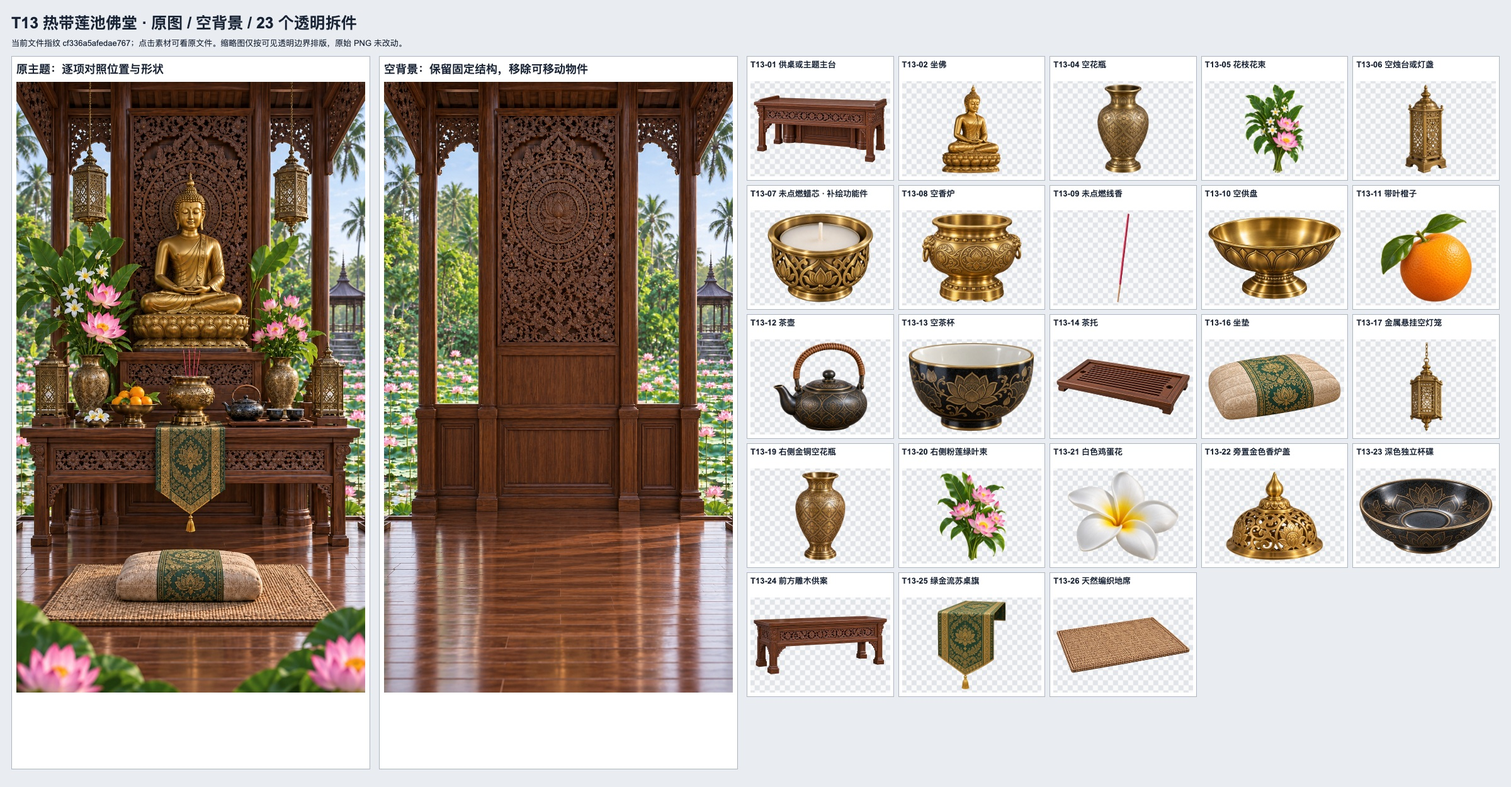
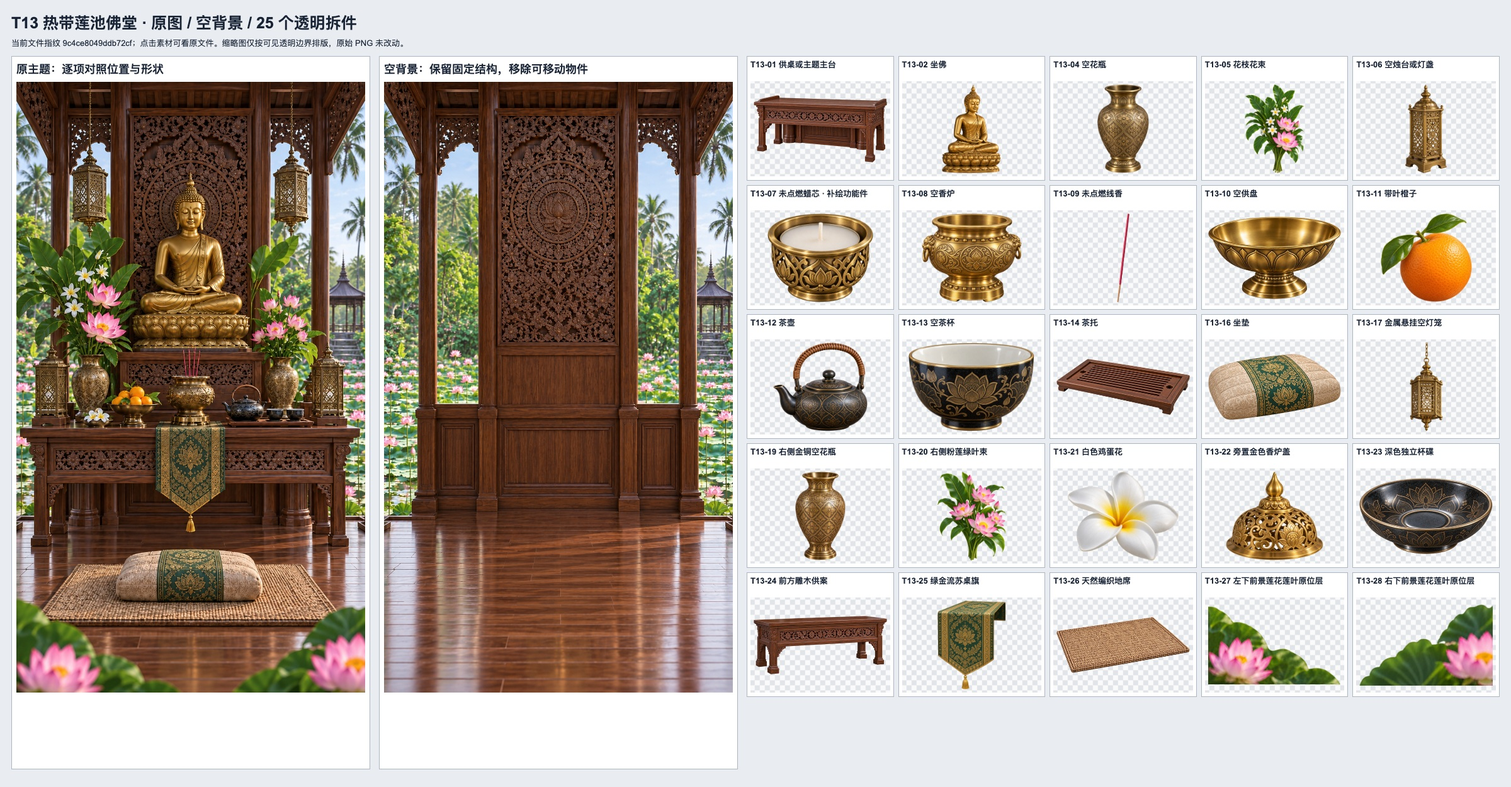
assets: complete final lotus and background corrections

diff --git a/themes/T07/index.html b/themes/T07/index.html
@@ -4,6 +4,6 @@
     .scene{background:white;padding:7px;border:1px solid #aab6c4}.scene b{display:block;font-size:18px;margin-bottom:8px}.scene img{width:100%;height:1080px;object-fit:contain;object-position:top}
     .assets{display:grid;grid-template-columns:repeat(5,1fr);gap:7px;align-content:start}article{border:1px solid #aab6c4;background:white;height:198px;padding:5px;overflow:hidden}
     header{font-size:13px;font-weight:600;height:34px;line-height:16px}article a{display:block;height:151px;background:repeating-conic-gradient(#e1e4e8 0% 25%,#fafafa 0% 50%) 50% / 16px 16px}article img{width:100%;height:100%;object-fit:contain;padding:5px}
-    </style><h1>T07 尼泊尔纽瓦铜艺佛堂 · 原图 / 空背景 / 36 个透明拆件</h1>
-    <div class="note">当前文件指纹 42d39b0f74ef141a；点击素材可看原文件。缩略图仅按可见透明边界排版，原始 PNG 未改动。</div>
-    <div class="layout"><section class="scene"><b>原主题：逐项对照位置与形状</b><img src="source.png"></section><section class="scene"><b>空背景：保留固定结构，移除可移动物件</b><img src="background.png"></section><section class="assets"><article><header>T07-01 供桌或主题主台</header><a href="objects/T07-01.png"><img src="thumbs/T07-01.png"></a></article><article><header>T07-02 坐佛</header><a href="objects/T07-02.png"><img src="thumbs/T07-02.png"></a></article><article><header>T07-04 空花瓶</header><a href="objects/T07-04.png"><img src="thumbs/T07-04.png"></a></article><article><header>T07-05 花枝花束</header><a href="objects/T07-05.png"><img src="thumbs/T07-05.png"></a></article><article><header>T07-06 空烛台或灯盏</header><a href="objects/T07-06.png"><img src="thumbs/T07-06.png"></a></article><article><header>T07-07 未点燃油灯芯 · 补绘功能件</header><a href="objects/T07-07.png"><img src="thumbs/T07-07.png"></a></article><article><header>T07-08 空香炉</header><a href="objects/T07-08.png"><img src="thumbs/T07-08.png"></a></article><article><header>T07-10 空供盘</header><a href="objects/T07-10.png"><img src="thumbs/T07-10.png"></a></article><article><header>T07-11 红苹果</header><a href="objects/T07-11.png"><img src="thumbs/T07-11.png"></a></article><article><header>T07-12 茶壶</header><a href="objects/T07-12.png"><img src="thumbs/T07-12.png"></a></article><article><header>T07-13 空茶杯</header><a href="objects/T07-13.png"><img src="thumbs/T07-13.png"></a></article><article><header>T07-14 圆形托盘茶几</header><a href="objects/T07-14.png"><img src="thumbs/T07-14.png"></a></article><article><header>T07-16 坐垫</header><a href="objects/T07-16.png"><img src="thumbs/T07-16.png"></a></article><article><header>T07-17 悬挂铜铃</header><a href="objects/T07-17.png"><img src="thumbs/T07-17.png"></a></article><article><header>T07-18 右侧铜色空花瓶</header><a href="objects/T07-18.png"><img src="thumbs/T07-18.png"></a></article><article><header>T07-19 右侧混色花束</header><a href="objects/T07-19.png"><img src="thumbs/T07-19.png"></a></article><article><header>T07-20 上层中央空盖器</header><a href="objects/T07-20.png"><img src="thumbs/T07-20.png"></a></article><article><header>T07-21 上层中央供器盖</header><a href="objects/T07-21.png"><img src="thumbs/T07-21.png"></a></article><article><header>T07-22 上层白花空供碗</header><a href="objects/T07-22.png"><img src="thumbs/T07-22.png"></a></article><article><header>T07-23 上层白色供花簇</header><a href="objects/T07-23.png"><img src="thumbs/T07-23.png"></a></article><article><header>T07-24 下层左侧空花钵</header><a href="objects/T07-24.png"><img src="thumbs/T07-24.png"></a></article><article><header>T07-25 橙色供花簇</header><a href="objects/T07-25.png"><img src="thumbs/T07-25.png"></a></article><article><header>T07-26 下层古铜香炉盖</header><a href="objects/T07-26.png"><img src="thumbs/T07-26.png"></a></article><article><header>T07-27 下层右侧空花钵</header><a href="objects/T07-27.png"><img src="thumbs/T07-27.png"></a></article><article><header>T07-28 下层白橙混色供花簇</header><a href="objects/T07-28.png"><img src="thumbs/T07-28.png"></a></article><article><header>T07-29 左侧金属护狮</header><a href="objects/T07-29.png"><img src="thumbs/T07-29.png"></a></article><article><header>T07-30 右侧金属护狮</header><a href="objects/T07-30.png"><img src="thumbs/T07-30.png"></a></article><article><header>T07-31 左侧金属空花盆</header><a href="objects/T07-31.png"><img src="thumbs/T07-31.png"></a></article><article><header>T07-32 左侧开花绿植</header><a href="objects/T07-32.png"><img src="thumbs/T07-32.png"></a></article><article><header>T07-33 右侧金属空花盆</header><a href="objects/T07-33.png"><img src="thumbs/T07-33.png"></a></article><article><header>T07-34 右侧开花绿植</header><a href="objects/T07-34.png"><img src="thumbs/T07-34.png"></a></article><article><header>T07-35 前左大型空水钵</header><a href="objects/T07-35.png"><img src="thumbs/T07-35.png"></a></article><article><header>T07-36 漂浮白色供花</header><a href="objects/T07-36.png"><img src="thumbs/T07-36.png"></a></article><article><header>T07-37 漂浮橙色供花</header><a href="objects/T07-37.png"><img src="thumbs/T07-37.png"></a></article><article><header>T07-38 铜色独立杯碟</header><a href="objects/T07-38.png"><img src="thumbs/T07-38.png"></a></article><article><header>T07-39 红蓝纹样地毯</header><a href="objects/T07-39.png"><img src="thumbs/T07-39.png"></a></article></section></div></html>
+    </style><h1>T07 尼泊尔纽瓦铜艺佛堂 · 原图 / 空背景 / 37 个透明拆件</h1>
+    <div class="note">当前文件指纹 961e79a11b855504；点击素材可看原文件。缩略图仅按可见透明边界排版，原始 PNG 未改动。</div>
+    <div class="layout"><section class="scene"><b>原主题：逐项对照位置与形状</b><img src="source.png"></section><section class="scene"><b>空背景：保留固定结构，移除可移动物件</b><img src="background.png"></section><section class="assets"><article><header>T07-01 供桌或主题主台</header><a href="objects/T07-01.png"><img src="thumbs/T07-01.png"></a></article><article><header>T07-02 坐佛</header><a href="objects/T07-02.png"><img src="thumbs/T07-02.png"></a></article><article><header>T07-04 空花瓶</header><a href="objects/T07-04.png"><img src="thumbs/T07-04.png"></a></article><article><header>T07-05 花枝花束</header><a href="objects/T07-05.png"><img src="thumbs/T07-05.png"></a></article><article><header>T07-06 空烛台或灯盏</header><a href="objects/T07-06.png"><img src="thumbs/T07-06.png"></a></article><article><header>T07-07 未点燃油灯芯 · 补绘功能件</header><a href="objects/T07-07.png"><img src="thumbs/T07-07.png"></a></article><article><header>T07-08 空香炉</header><a href="objects/T07-08.png"><img src="thumbs/T07-08.png"></a></article><article><header>T07-10 空供盘</header><a href="objects/T07-10.png"><img src="thumbs/T07-10.png"></a></article><article><header>T07-11 红苹果</header><a href="objects/T07-11.png"><img src="thumbs/T07-11.png"></a></article><article><header>T07-12 茶壶</header><a href="objects/T07-12.png"><img src="thumbs/T07-12.png"></a></article><article><header>T07-13 空茶杯</header><a href="objects/T07-13.png"><img src="thumbs/T07-13.png"></a></article><article><header>T07-14 圆形托盘茶几</header><a href="objects/T07-14.png"><img src="thumbs/T07-14.png"></a></article><article><header>T07-16 坐垫</header><a href="objects/T07-16.png"><img src="thumbs/T07-16.png"></a></article><article><header>T07-17 悬挂铜铃</header><a href="objects/T07-17.png"><img src="thumbs/T07-17.png"></a></article><article><header>T07-18 右侧铜色空花瓶</header><a href="objects/T07-18.png"><img src="thumbs/T07-18.png"></a></article><article><header>T07-19 右侧混色花束</header><a href="objects/T07-19.png"><img src="thumbs/T07-19.png"></a></article><article><header>T07-20 上层中央空盖器</header><a href="objects/T07-20.png"><img src="thumbs/T07-20.png"></a></article><article><header>T07-21 上层中央供器盖</header><a href="objects/T07-21.png"><img src="thumbs/T07-21.png"></a></article><article><header>T07-22 上层白花空供碗</header><a href="objects/T07-22.png"><img src="thumbs/T07-22.png"></a></article><article><header>T07-23 上层白色供花簇</header><a href="objects/T07-23.png"><img src="thumbs/T07-23.png"></a></article><article><header>T07-24 下层左侧空花钵</header><a href="objects/T07-24.png"><img src="thumbs/T07-24.png"></a></article><article><header>T07-25 橙色供花簇</header><a href="objects/T07-25.png"><img src="thumbs/T07-25.png"></a></article><article><header>T07-26 下层古铜香炉盖</header><a href="objects/T07-26.png"><img src="thumbs/T07-26.png"></a></article><article><header>T07-27 下层右侧空花钵</header><a href="objects/T07-27.png"><img src="thumbs/T07-27.png"></a></article><article><header>T07-28 下层白橙混色供花簇</header><a href="objects/T07-28.png"><img src="thumbs/T07-28.png"></a></article><article><header>T07-29 左侧金属护狮</header><a href="objects/T07-29.png"><img src="thumbs/T07-29.png"></a></article><article><header>T07-30 右侧金属护狮</header><a href="objects/T07-30.png"><img src="thumbs/T07-30.png"></a></article><article><header>T07-31 左侧金属空花盆</header><a href="objects/T07-31.png"><img src="thumbs/T07-31.png"></a></article><article><header>T07-32 左侧开花绿植</header><a href="objects/T07-32.png"><img src="thumbs/T07-32.png"></a></article><article><header>T07-33 右侧金属空花盆</header><a href="objects/T07-33.png"><img src="thumbs/T07-33.png"></a></article><article><header>T07-34 右侧开花绿植</header><a href="objects/T07-34.png"><img src="thumbs/T07-34.png"></a></article><article><header>T07-35 前左大型空水钵</header><a href="objects/T07-35.png"><img src="thumbs/T07-35.png"></a></article><article><header>T07-36 漂浮白色供花</header><a href="objects/T07-36.png"><img src="thumbs/T07-36.png"></a></article><article><header>T07-37 漂浮橙色供花</header><a href="objects/T07-37.png"><img src="thumbs/T07-37.png"></a></article><article><header>T07-38 铜色独立杯碟</header><a href="objects/T07-38.png"><img src="thumbs/T07-38.png"></a></article><article><header>T07-39 红蓝纹样地毯</header><a href="objects/T07-39.png"><img src="thumbs/T07-39.png"></a></article><article><header>T07-40 左前水钵水面原位层</header><a href="objects/T07-40.png"><img src="thumbs/T07-40.png"></a></article></section></div></html>

diff --git a/themes/T08/index.html b/themes/T08/index.html
@@ -4,6 +4,6 @@
     .scene{background:white;padding:7px;border:1px solid #aab6c4}.scene b{display:block;font-size:18px;margin-bottom:8px}.scene img{width:100%;height:1080px;object-fit:contain;object-position:top}
     .assets{display:grid;grid-template-columns:repeat(5,1fr);gap:7px;align-content:start}article{border:1px solid #aab6c4;background:white;height:198px;padding:5px;overflow:hidden}
     header{font-size:13px;font-weight:600;height:34px;line-height:16px}article a{display:block;height:151px;background:repeating-conic-gradient(#e1e4e8 0% 25%,#fafafa 0% 50%) 50% / 16px 16px}article img{width:100%;height:100%;object-fit:contain;padding:5px}
-    </style><h1>T08 斯里兰卡月白佛堂 · 原图 / 空背景 / 32 个透明拆件</h1>
-    <div class="note">当前文件指纹 f9054ff655b5dd39；点击素材可看原文件。缩略图仅按可见透明边界排版，原始 PNG 未改动。</div>
-    <div class="layout"><section class="scene"><b>原主题：逐项对照位置与形状</b><img src="source.png"></section><section class="scene"><b>空背景：保留固定结构，移除可移动物件</b><img src="background.png"></section><section class="assets"><article><header>T08-01 供桌或主题主台</header><a href="objects/T08-01.png"><img src="thumbs/T08-01.png"></a></article><article><header>T08-02 坐佛</header><a href="objects/T08-02.png"><img src="thumbs/T08-02.png"></a></article><article><header>T08-04 空花瓶</header><a href="objects/T08-04.png"><img src="thumbs/T08-04.png"></a></article><article><header>T08-05 花枝花束</header><a href="objects/T08-05.png"><img src="thumbs/T08-05.png"></a></article><article><header>T08-06 空烛台或灯盏</header><a href="objects/T08-06.png"><img src="thumbs/T08-06.png"></a></article><article><header>T08-07 未点燃蜡芯 · 补绘功能件</header><a href="objects/T08-07.png"><img src="thumbs/T08-07.png"></a></article><article><header>T08-08 空香炉</header><a href="objects/T08-08.png"><img src="thumbs/T08-08.png"></a></article><article><header>T08-09 未点燃线香</header><a href="objects/T08-09.png"><img src="thumbs/T08-09.png"></a></article><article><header>T08-10 空供盘</header><a href="objects/T08-10.png"><img src="thumbs/T08-10.png"></a></article><article><header>T08-11 香蕉</header><a href="objects/T08-11.png"><img src="thumbs/T08-11.png"></a></article><article><header>T08-12 茶壶</header><a href="objects/T08-12.png"><img src="thumbs/T08-12.png"></a></article><article><header>T08-13 空茶杯</header><a href="objects/T08-13.png"><img src="thumbs/T08-13.png"></a></article><article><header>T08-14 茶托</header><a href="objects/T08-14.png"><img src="thumbs/T08-14.png"></a></article><article><header>T08-16 坐垫</header><a href="objects/T08-16.png"><img src="thumbs/T08-16.png"></a></article><article><header>T08-17 右侧雕花空白瓶</header><a href="objects/T08-17.png"><img src="thumbs/T08-17.png"></a></article><article><header>T08-18 右侧白花绿叶束</header><a href="objects/T08-18.png"><img src="thumbs/T08-18.png"></a></article><article><header>T08-19 左后方绿叶白花饰</header><a href="objects/T08-19.png"><img src="thumbs/T08-19.png"></a></article><article><header>T08-20 右后方绿叶白花饰</header><a href="objects/T08-20.png"><img src="thumbs/T08-20.png"></a></article><article><header>T08-21 金属承香顶片</header><a href="objects/T08-21.png"><img src="thumbs/T08-21.png"></a></article><article><header>T08-22 绿色柑橘果</header><a href="objects/T08-22.png"><img src="thumbs/T08-22.png"></a></article><article><header>T08-23 白色鸡蛋花</header><a href="objects/T08-23.png"><img src="thumbs/T08-23.png"></a></article><article><header>T08-24 右侧金属空盖饰器</header><a href="objects/T08-24.png"><img src="thumbs/T08-24.png"></a></article><article><header>T08-25 金属饰器盖</header><a href="objects/T08-25.png"><img src="thumbs/T08-25.png"></a></article><article><header>T08-26 小型白色空供碗</header><a href="objects/T08-26.png"><img src="thumbs/T08-26.png"></a></article><article><header>T08-27 白色小供花簇</header><a href="objects/T08-27.png"><img src="thumbs/T08-27.png"></a></article><article><header>T08-28 金莲纹流苏桌布</header><a href="objects/T08-28.png"><img src="thumbs/T08-28.png"></a></article><article><header>T08-29 垂落白花绿叶串</header><a href="objects/T08-29.png"><img src="thumbs/T08-29.png"></a></article><article><header>T08-30 棕色编织地席</header><a href="objects/T08-30.png"><img src="thumbs/T08-30.png"></a></article><article><header>T08-31 左前空石水钵</header><a href="objects/T08-31.png"><img src="thumbs/T08-31.png"></a></article><article><header>T08-32 右前空石水钵</header><a href="objects/T08-32.png"><img src="thumbs/T08-32.png"></a></article><article><header>T08-33 漂浮白色花朵</header><a href="objects/T08-33.png"><img src="thumbs/T08-33.png"></a></article><article><header>T08-36 左下前景绿叶白花原位层</header><a href="objects/T08-36.png"><img src="thumbs/T08-36.png"></a></article></section></div></html>
+    </style><h1>T08 斯里兰卡月白佛堂 · 原图 / 空背景 / 34 个透明拆件</h1>
+    <div class="note">当前文件指纹 e2df96dadce504c4；点击素材可看原文件。缩略图仅按可见透明边界排版，原始 PNG 未改动。</div>
+    <div class="layout"><section class="scene"><b>原主题：逐项对照位置与形状</b><img src="source.png"></section><section class="scene"><b>空背景：保留固定结构，移除可移动物件</b><img src="background.png"></section><section class="assets"><article><header>T08-01 供桌或主题主台</header><a href="objects/T08-01.png"><img src="thumbs/T08-01.png"></a></article><article><header>T08-02 坐佛</header><a href="objects/T08-02.png"><img src="thumbs/T08-02.png"></a></article><article><header>T08-04 空花瓶</header><a href="objects/T08-04.png"><img src="thumbs/T08-04.png"></a></article><article><header>T08-05 花枝花束</header><a href="objects/T08-05.png"><img src="thumbs/T08-05.png"></a></article><article><header>T08-06 空烛台或灯盏</header><a href="objects/T08-06.png"><img src="thumbs/T08-06.png"></a></article><article><header>T08-07 未点燃蜡芯 · 补绘功能件</header><a href="objects/T08-07.png"><img src="thumbs/T08-07.png"></a></article><article><header>T08-08 空香炉</header><a href="objects/T08-08.png"><img src="thumbs/T08-08.png"></a></article><article><header>T08-09 未点燃线香</header><a href="objects/T08-09.png"><img src="thumbs/T08-09.png"></a></article><article><header>T08-10 空供盘</header><a href="objects/T08-10.png"><img src="thumbs/T08-10.png"></a></article><article><header>T08-11 香蕉</header><a href="objects/T08-11.png"><img src="thumbs/T08-11.png"></a></article><article><header>T08-12 茶壶</header><a href="objects/T08-12.png"><img src="thumbs/T08-12.png"></a></article><article><header>T08-13 空茶杯</header><a href="objects/T08-13.png"><img src="thumbs/T08-13.png"></a></article><article><header>T08-14 茶托</header><a href="objects/T08-14.png"><img src="thumbs/T08-14.png"></a></article><article><header>T08-16 坐垫</header><a href="objects/T08-16.png"><img src="thumbs/T08-16.png"></a></article><article><header>T08-17 右侧雕花空白瓶</header><a href="objects/T08-17.png"><img src="thumbs/T08-17.png"></a></article><article><header>T08-18 右侧白花绿叶束</header><a href="objects/T08-18.png"><img src="thumbs/T08-18.png"></a></article><article><header>T08-19 左后方绿叶白花饰</header><a href="objects/T08-19.png"><img src="thumbs/T08-19.png"></a></article><article><header>T08-20 右后方绿叶白花饰</header><a href="objects/T08-20.png"><img src="thumbs/T08-20.png"></a></article><article><header>T08-21 金属承香顶片</header><a href="objects/T08-21.png"><img src="thumbs/T08-21.png"></a></article><article><header>T08-22 绿色柑橘果</header><a href="objects/T08-22.png"><img src="thumbs/T08-22.png"></a></article><article><header>T08-23 白色鸡蛋花</header><a href="objects/T08-23.png"><img src="thumbs/T08-23.png"></a></article><article><header>T08-24 右侧金属空盖饰器</header><a href="objects/T08-24.png"><img src="thumbs/T08-24.png"></a></article><article><header>T08-25 金属饰器盖</header><a href="objects/T08-25.png"><img src="thumbs/T08-25.png"></a></article><article><header>T08-26 小型白色空供碗</header><a href="objects/T08-26.png"><img src="thumbs/T08-26.png"></a></article><article><header>T08-27 白色小供花簇</header><a href="objects/T08-27.png"><img src="thumbs/T08-27.png"></a></article><article><header>T08-28 金莲纹流苏桌布</header><a href="objects/T08-28.png"><img src="thumbs/T08-28.png"></a></article><article><header>T08-29 垂落白花绿叶串</header><a href="objects/T08-29.png"><img src="thumbs/T08-29.png"></a></article><article><header>T08-30 棕色编织地席</header><a href="objects/T08-30.png"><img src="thumbs/T08-30.png"></a></article><article><header>T08-31 左前空石水钵</header><a href="objects/T08-31.png"><img src="thumbs/T08-31.png"></a></article><article><header>T08-32 右前空石水钵</header><a href="objects/T08-32.png"><img src="thumbs/T08-32.png"></a></article><article><header>T08-33 漂浮白色花朵</header><a href="objects/T08-33.png"><img src="thumbs/T08-33.png"></a></article><article><header>T08-34 左前石水钵水面原位层</header><a href="objects/T08-34.png"><img src="thumbs/T08-34.png"></a></article><article><header>T08-35 右前石水钵水面原位层</header><a href="objects/T08-35.png"><img src="thumbs/T08-35.png"></a></article><article><header>T08-36 左下前景绿叶白花原位层</header><a href="objects/T08-36.png"><img src="thumbs/T08-36.png"></a></article></section></div></html>

diff --git a/themes/T13/index.html b/themes/T13/index.html
@@ -4,6 +4,6 @@
     .scene{background:white;padding:7px;border:1px solid #aab6c4}.scene b{display:block;font-size:18px;margin-bottom:8px}.scene img{width:100%;height:1080px;object-fit:contain;object-position:top}
     .assets{display:grid;grid-template-columns:repeat(5,1fr);gap:7px;align-content:start}article{border:1px solid #aab6c4;background:white;height:198px;padding:5px;overflow:hidden}
     header{font-size:13px;font-weight:600;height:34px;line-height:16px}article a{display:block;height:151px;background:repeating-conic-gradient(#e1e4e8 0% 25%,#fafafa 0% 50%) 50% / 16px 16px}article img{width:100%;height:100%;object-fit:contain;padding:5px}
-    </style><h1>T13 热带莲池佛堂 · 原图 / 空背景 / 23 个透明拆件</h1>
-    <div class="note">当前文件指纹 cf336a5afedae767；点击素材可看原文件。缩略图仅按可见透明边界排版，原始 PNG 未改动。</div>
-    <div class="layout"><section class="scene"><b>原主题：逐项对照位置与形状</b><img src="source.png"></section><section class="scene"><b>空背景：保留固定结构，移除可移动物件</b><img src="background.png"></section><section class="assets"><article><header>T13-01 供桌或主题主台</header><a href="objects/T13-01.png"><img src="thumbs/T13-01.png"></a></article><article><header>T13-02 坐佛</header><a href="objects/T13-02.png"><img src="thumbs/T13-02.png"></a></article><article><header>T13-04 空花瓶</header><a href="objects/T13-04.png"><img src="thumbs/T13-04.png"></a></article><article><header>T13-05 花枝花束</header><a href="objects/T13-05.png"><img src="thumbs/T13-05.png"></a></article><article><header>T13-06 空烛台或灯盏</header><a href="objects/T13-06.png"><img src="thumbs/T13-06.png"></a></article><article><header>T13-07 未点燃蜡芯 · 补绘功能件</header><a href="objects/T13-07.png"><img src="thumbs/T13-07.png"></a></article><article><header>T13-08 空香炉</header><a href="objects/T13-08.png"><img src="thumbs/T13-08.png"></a></article><article><header>T13-09 未点燃线香</header><a href="objects/T13-09.png"><img src="thumbs/T13-09.png"></a></article><article><header>T13-10 空供盘</header><a href="objects/T13-10.png"><img src="thumbs/T13-10.png"></a></article><article><header>T13-11 带叶橙子</header><a href="objects/T13-11.png"><img src="thumbs/T13-11.png"></a></article><article><header>T13-12 茶壶</header><a href="objects/T13-12.png"><img src="thumbs/T13-12.png"></a></article><article><header>T13-13 空茶杯</header><a href="objects/T13-13.png"><img src="thumbs/T13-13.png"></a></article><article><header>T13-14 茶托</header><a href="objects/T13-14.png"><img src="thumbs/T13-14.png"></a></article><article><header>T13-16 坐垫</header><a href="objects/T13-16.png"><img src="thumbs/T13-16.png"></a></article><article><header>T13-17 金属悬挂空灯笼</header><a href="objects/T13-17.png"><img src="thumbs/T13-17.png"></a></article><article><header>T13-19 右侧金铜空花瓶</header><a href="objects/T13-19.png"><img src="thumbs/T13-19.png"></a></article><article><header>T13-20 右侧粉莲绿叶束</header><a href="objects/T13-20.png"><img src="thumbs/T13-20.png"></a></article><article><header>T13-21 白色鸡蛋花</header><a href="objects/T13-21.png"><img src="thumbs/T13-21.png"></a></article><article><header>T13-22 旁置金色香炉盖</header><a href="objects/T13-22.png"><img src="thumbs/T13-22.png"></a></article><article><header>T13-23 深色独立杯碟</header><a href="objects/T13-23.png"><img src="thumbs/T13-23.png"></a></article><article><header>T13-24 前方雕木供案</header><a href="objects/T13-24.png"><img src="thumbs/T13-24.png"></a></article><article><header>T13-25 绿金流苏桌旗</header><a href="objects/T13-25.png"><img src="thumbs/T13-25.png"></a></article><article><header>T13-26 天然编织地席</header><a href="objects/T13-26.png"><img src="thumbs/T13-26.png"></a></article></section></div></html>
+    </style><h1>T13 热带莲池佛堂 · 原图 / 空背景 / 25 个透明拆件</h1>
+    <div class="note">当前文件指纹 9c4ce8049ddb72cf；点击素材可看原文件。缩略图仅按可见透明边界排版，原始 PNG 未改动。</div>
+    <div class="layout"><section class="scene"><b>原主题：逐项对照位置与形状</b><img src="source.png"></section><section class="scene"><b>空背景：保留固定结构，移除可移动物件</b><img src="background.png"></section><section class="assets"><article><header>T13-01 供桌或主题主台</header><a href="objects/T13-01.png"><img src="thumbs/T13-01.png"></a></article><article><header>T13-02 坐佛</header><a href="objects/T13-02.png"><img src="thumbs/T13-02.png"></a></article><article><header>T13-04 空花瓶</header><a href="objects/T13-04.png"><img src="thumbs/T13-04.png"></a></article><article><header>T13-05 花枝花束</header><a href="objects/T13-05.png"><img src="thumbs/T13-05.png"></a></article><article><header>T13-06 空烛台或灯盏</header><a href="objects/T13-06.png"><img src="thumbs/T13-06.png"></a></article><article><header>T13-07 未点燃蜡芯 · 补绘功能件</header><a href="objects/T13-07.png"><img src="thumbs/T13-07.png"></a></article><article><header>T13-08 空香炉</header><a href="objects/T13-08.png"><img src="thumbs/T13-08.png"></a></article><article><header>T13-09 未点燃线香</header><a href="objects/T13-09.png"><img src="thumbs/T13-09.png"></a></article><article><header>T13-10 空供盘</header><a href="objects/T13-10.png"><img src="thumbs/T13-10.png"></a></article><article><header>T13-11 带叶橙子</header><a href="objects/T13-11.png"><img src="thumbs/T13-11.png"></a></article><article><header>T13-12 茶壶</header><a href="objects/T13-12.png"><img src="thumbs/T13-12.png"></a></article><article><header>T13-13 空茶杯</header><a href="objects/T13-13.png"><img src="thumbs/T13-13.png"></a></article><article><header>T13-14 茶托</header><a href="objects/T13-14.png"><img src="thumbs/T13-14.png"></a></article><article><header>T13-16 坐垫</header><a href="objects/T13-16.png"><img src="thumbs/T13-16.png"></a></article><article><header>T13-17 金属悬挂空灯笼</header><a href="objects/T13-17.png"><img src="thumbs/T13-17.png"></a></article><article><header>T13-19 右侧金铜空花瓶</header><a href="objects/T13-19.png"><img src="thumbs/T13-19.png"></a></article><article><header>T13-20 右侧粉莲绿叶束</header><a href="objects/T13-20.png"><img src="thumbs/T13-20.png"></a></article><article><header>T13-21 白色鸡蛋花</header><a href="objects/T13-21.png"><img src="thumbs/T13-21.png"></a></article><article><header>T13-22 旁置金色香炉盖</header><a href="objects/T13-22.png"><img src="thumbs/T13-22.png"></a></article><article><header>T13-23 深色独立杯碟</header><a href="objects/T13-23.png"><img src="thumbs/T13-23.png"></a></article><article><header>T13-24 前方雕木供案</header><a href="objects/T13-24.png"><img src="thumbs/T13-24.png"></a></article><article><header>T13-25 绿金流苏桌旗</header><a href="objects/T13-25.png"><img src="thumbs/T13-25.png"></a></article><article><header>T13-26 天然编织地席</header><a href="objects/T13-26.png"><img src="thumbs/T13-26.png"></a></article><article><header>T13-27 左下前景莲花莲叶原位层</header><a href="objects/T13-27.png"><img src="thumbs/T13-27.png"></a></article><article><header>T13-28 右下前景莲花莲叶原位层</header><a href="objects/T13-28.png"><img src="thumbs/T13-28.png"></a></article></section></div></html>

diff --git a/themes/T14/index.html b/themes/T14/index.html
@@ -5,5 +5,5 @@
     .assets{display:grid;grid-template-columns:repeat(5,1fr);gap:7px;align-content:start}article{border:1px solid #aab6c4;background:white;height:198px;padding:5px;overflow:hidden}
     header{font-size:13px;font-weight:600;height:34px;line-height:16px}article a{display:block;height:151px;background:repeating-conic-gradient(#e1e4e8 0% 25%,#fafafa 0% 50%) 50% / 16px 16px}article img{width:100%;height:100%;object-fit:contain;padding:5px}
     </style><h1>T14 北欧原木静修室 · 原图 / 空背景 / 27 个透明拆件</h1>
-    <div class="note">当前文件指纹 9d8c9b6deb9f37b8；点击素材可看原文件。缩略图仅按可见透明边界排版，原始 PNG 未改动。</div>
+    <div class="note">当前文件指纹 060fcbb87a5cbec3；点击素材可看原文件。缩略图仅按可见透明边界排版，原始 PNG 未改动。</div>
     <div class="layout"><section class="scene"><b>原主题：逐项对照位置与形状</b><img src="source.png"></section><section class="scene"><b>空背景：保留固定结构，移除可移动物件</b><img src="background.png"></section><section class="assets"><article><header>T14-01 供桌或主题主台</header><a href="objects/T14-01.png"><img src="thumbs/T14-01.png"></a></article><article><header>T14-02 坐佛</header><a href="objects/T14-02.png"><img src="thumbs/T14-02.png"></a></article><article><header>T14-03 佛像底座</header><a href="objects/T14-03.png"><img src="thumbs/T14-03.png"></a></article><article><header>T14-04 空花瓶</header><a href="objects/T14-04.png"><img src="thumbs/T14-04.png"></a></article><article><header>T14-05 花枝花束</header><a href="objects/T14-05.png"><img src="thumbs/T14-05.png"></a></article><article><header>T14-06 空烛台或灯盏</header><a href="objects/T14-06.png"><img src="thumbs/T14-06.png"></a></article><article><header>T14-07 未点燃白柱蜡烛</header><a href="objects/T14-07.png"><img src="thumbs/T14-07.png"></a></article><article><header>T14-08 空香炉</header><a href="objects/T14-08.png"><img src="thumbs/T14-08.png"></a></article><article><header>T14-09 未点燃线香</header><a href="objects/T14-09.png"><img src="thumbs/T14-09.png"></a></article><article><header>T14-10 空供盘</header><a href="objects/T14-10.png"><img src="thumbs/T14-10.png"></a></article><article><header>T14-11 青苹果</header><a href="objects/T14-11.png"><img src="thumbs/T14-11.png"></a></article><article><header>T14-12 茶壶</header><a href="objects/T14-12.png"><img src="thumbs/T14-12.png"></a></article><article><header>T14-13 空茶杯</header><a href="objects/T14-13.png"><img src="thumbs/T14-13.png"></a></article><article><header>T14-14 茶托</header><a href="objects/T14-14.png"><img src="thumbs/T14-14.png"></a></article><article><header>T14-16 坐垫</header><a href="objects/T14-16.png"><img src="thumbs/T14-16.png"></a></article><article><header>T14-17 米陶独立香炉盖</header><a href="objects/T14-17.png"><img src="thumbs/T14-17.png"></a></article><article><header>T14-18 木质独立杯碟</header><a href="objects/T14-18.png"><img src="thumbs/T14-18.png"></a></article><article><header>T14-19 右侧未点燃白蜡烛</header><a href="objects/T14-19.png"><img src="thumbs/T14-19.png"></a></article><article><header>T14-20 右侧独立烛碟</header><a href="objects/T14-20.png"><img src="thumbs/T14-20.png"></a></article><article><header>T14-21 米色浮雕壁饰</header><a href="objects/T14-21.png"><img src="thumbs/T14-21.png"></a></article><article><header>T14-22 左后大型空陶盆</header><a href="objects/T14-22.png"><img src="thumbs/T14-22.png"></a></article><article><header>T14-23 盆栽完整树体</header><a href="objects/T14-23.png"><img src="thumbs/T14-23.png"></a></article><article><header>T14-24 右前落地空花瓶</header><a href="objects/T14-24.png"><img src="thumbs/T14-24.png"></a></article><article><header>T14-25 右前落地花枝组</header><a href="objects/T14-25.png"><img src="thumbs/T14-25.png"></a></article><article><header>T14-26 天然纤维地毯</header><a href="objects/T14-26.png"><img src="thumbs/T14-26.png"></a></article><article><header>T14-27 右侧斑点米陶空杯</header><a href="objects/T14-27.png"><img src="thumbs/T14-27.png"></a></article><article><header>T14-28 左下近景白花绿叶原位层</header><a href="objects/T14-28.png"><img src="thumbs/T14-28.png"></a></article></section></div></html>

diff --git a/reviews/themes/README.md b/reviews/themes/README.md
@@ -1,6 +1,6 @@
 # 20 套主题拆件对照图
 
-20套初次拆件和背景均已生成；当前正式验收 13/20 套：T02, T03, T04, T05, T06, T09, T11, T15, T16, T18, T19, T20, T21。其余仍在逐套查漏与修正。
+20套初次拆件和背景均已生成；当前正式验收 16/20 套：T02, T03, T04, T05, T06, T09, T10, T11, T12, T15, T16, T17, T18, T19, T20, T21。其余仍在逐套查漏与修正。
 
 | 主题 | 透明物件数 | 整套对照图 | 状态 |
 |---|---:|---|---|
@@ -9,17 +9,17 @@
 | T04 喜马拉雅鎏金佛堂 | 31 | [HTTPS 快速整页](https://raw.githubusercontent.com/leading/buddahome_assets/main/reviews/themes/T04/overview-fast.jpg) · [高清](https://raw.githubusercontent.com/leading/buddahome_assets/main/reviews/themes/T04/overview.jpg) | verified |
 | T05 兰纳柚木佛堂 | 30 | [HTTPS 快速整页](https://raw.githubusercontent.com/leading/buddahome_assets/main/reviews/themes/T05/overview-fast.jpg) · [高清](https://raw.githubusercontent.com/leading/buddahome_assets/main/reviews/themes/T05/overview.jpg) | verified |
 | T06 新罗韩屋禅堂 | 30 | [HTTPS 快速整页](https://raw.githubusercontent.com/leading/buddahome_assets/main/reviews/themes/T06/overview-fast.jpg) · [高清](https://raw.githubusercontent.com/leading/buddahome_assets/main/reviews/themes/T06/overview.jpg) | verified |
-| T07 尼泊尔纽瓦铜艺佛堂 | 36 | [HTTPS 快速整页](https://raw.githubusercontent.com/leading/buddahome_assets/main/reviews/themes/T07/overview-fast.jpg) · [高清](https://raw.githubusercontent.com/leading/buddahome_assets/main/reviews/themes/T07/overview.jpg) | pending_visual_review |
-| T08 斯里兰卡月白佛堂 | 32 | [HTTPS 快速整页](https://raw.githubusercontent.com/leading/buddahome_assets/main/reviews/themes/T08/overview-fast.jpg) · [高清](https://raw.githubusercontent.com/leading/buddahome_assets/main/reviews/themes/T08/overview.jpg) | pending_visual_review |
+| T07 尼泊尔纽瓦铜艺佛堂 | 37 | [HTTPS 快速整页](https://raw.githubusercontent.com/leading/buddahome_assets/main/reviews/themes/T07/overview-fast.jpg) · [高清](https://raw.githubusercontent.com/leading/buddahome_assets/main/reviews/themes/T07/overview.jpg) | pending_visual_review |
+| T08 斯里兰卡月白佛堂 | 34 | [HTTPS 快速整页](https://raw.githubusercontent.com/leading/buddahome_assets/main/reviews/themes/T08/overview-fast.jpg) · [高清](https://raw.githubusercontent.com/leading/buddahome_assets/main/reviews/themes/T08/overview.jpg) | pending_visual_review |
 | T09 唐风朱砂金殿 | 28 | [HTTPS 快速整页](https://raw.githubusercontent.com/leading/buddahome_assets/main/reviews/themes/T09/overview-fast.jpg) · [高清](https://raw.githubusercontent.com/leading/buddahome_assets/main/reviews/themes/T09/overview.jpg) | verified |
-| T10 明式文人禅室 | 39 | [HTTPS 快速整页](https://raw.githubusercontent.com/leading/buddahome_assets/main/reviews/themes/T10/overview-fast.jpg) · [高清](https://raw.githubusercontent.com/leading/buddahome_assets/main/reviews/themes/T10/overview.jpg) | pending_visual_review |
+| T10 明式文人禅室 | 39 | [HTTPS 快速整页](https://raw.githubusercontent.com/leading/buddahome_assets/main/reviews/themes/T10/overview-fast.jpg) · [高清](https://raw.githubusercontent.com/leading/buddahome_assets/main/reviews/themes/T10/overview.jpg) | verified |
 | T11 江南雨窗佛堂 | 25 | [HTTPS 快速整页](https://raw.githubusercontent.com/leading/buddahome_assets/main/reviews/themes/T11/overview-fast.jpg) · [高清](https://raw.githubusercontent.com/leading/buddahome_assets/main/reviews/themes/T11/overview.jpg) | verified |
-| T12 竹林晨雾禅居 | 22 | [HTTPS 快速整页](https://raw.githubusercontent.com/leading/buddahome_assets/main/reviews/themes/T12/overview-fast.jpg) · [高清](https://raw.githubusercontent.com/leading/buddahome_assets/main/reviews/themes/T12/overview.jpg) | pending_visual_review |
-| T13 热带莲池佛堂 | 23 | [HTTPS 快速整页](https://raw.githubusercontent.com/leading/buddahome_assets/main/reviews/themes/T13/overview-fast.jpg) · [高清](https://raw.githubusercontent.com/leading/buddahome_assets/main/reviews/themes/T13/overview.jpg) | pending_visual_review |
+| T12 竹林晨雾禅居 | 22 | [HTTPS 快速整页](https://raw.githubusercontent.com/leading/buddahome_assets/main/reviews/themes/T12/overview-fast.jpg) · [高清](https://raw.githubusercontent.com/leading/buddahome_assets/main/reviews/themes/T12/overview.jpg) | verified |
+| T13 热带莲池佛堂 | 25 | [HTTPS 快速整页](https://raw.githubusercontent.com/leading/buddahome_assets/main/reviews/themes/T13/overview-fast.jpg) · [高清](https://raw.githubusercontent.com/leading/buddahome_assets/main/reviews/themes/T13/overview.jpg) | pending_visual_review |
 | T14 北欧原木静修室 | 27 | [HTTPS 快速整页](https://raw.githubusercontent.com/leading/buddahome_assets/main/reviews/themes/T14/overview-fast.jpg) · [高清](https://raw.githubusercontent.com/leading/buddahome_assets/main/reviews/themes/T14/overview.jpg) | pending_visual_review |
 | T15 清水混凝土极简佛堂 | 12 | [HTTPS 快速整页](https://raw.githubusercontent.com/leading/buddahome_assets/main/reviews/themes/T15/overview-fast.jpg) · [高清](https://raw.githubusercontent.com/leading/buddahome_assets/main/reviews/themes/T15/overview.jpg) | verified |
 | T16 都市夜景黑金佛堂 | 25 | [HTTPS 快速整页](https://raw.githubusercontent.com/leading/buddahome_assets/main/reviews/themes/T16/overview-fast.jpg) · [高清](https://raw.githubusercontent.com/leading/buddahome_assets/main/reviews/themes/T16/overview.jpg) | verified |
-| T17 海岸白石禅室 | 27 | [HTTPS 快速整页](https://raw.githubusercontent.com/leading/buddahome_assets/main/reviews/themes/T17/overview-fast.jpg) · [高清](https://raw.githubusercontent.com/leading/buddahome_assets/main/reviews/themes/T17/overview.jpg) | pending_visual_review |
+| T17 海岸白石禅室 | 27 | [HTTPS 快速整页](https://raw.githubusercontent.com/leading/buddahome_assets/main/reviews/themes/T17/overview-fast.jpg) · [高清](https://raw.githubusercontent.com/leading/buddahome_assets/main/reviews/themes/T17/overview.jpg) | verified |
 | T18 新艺术琉璃花房佛堂 | 23 | [HTTPS 快速整页](https://raw.githubusercontent.com/leading/buddahome_assets/main/reviews/themes/T18/overview-fast.jpg) · [高清](https://raw.githubusercontent.com/leading/buddahome_assets/main/reviews/themes/T18/overview.jpg) | verified |
 | T19 秋山枫影禅室 | 24 | [HTTPS 快速整页](https://raw.githubusercontent.com/leading/buddahome_assets/main/reviews/themes/T19/overview-fast.jpg) · [高清](https://raw.githubusercontent.com/leading/buddahome_assets/main/reviews/themes/T19/overview.jpg) | verified |
 | T20 冬雪暖灯佛堂 | 33 | [HTTPS 快速整页](https://raw.githubusercontent.com/leading/buddahome_assets/main/reviews/themes/T20/overview-fast.jpg) · [高清](https://raw.githubusercontent.com/leading/buddahome_assets/main/reviews/themes/T20/overview.jpg) | verified |
